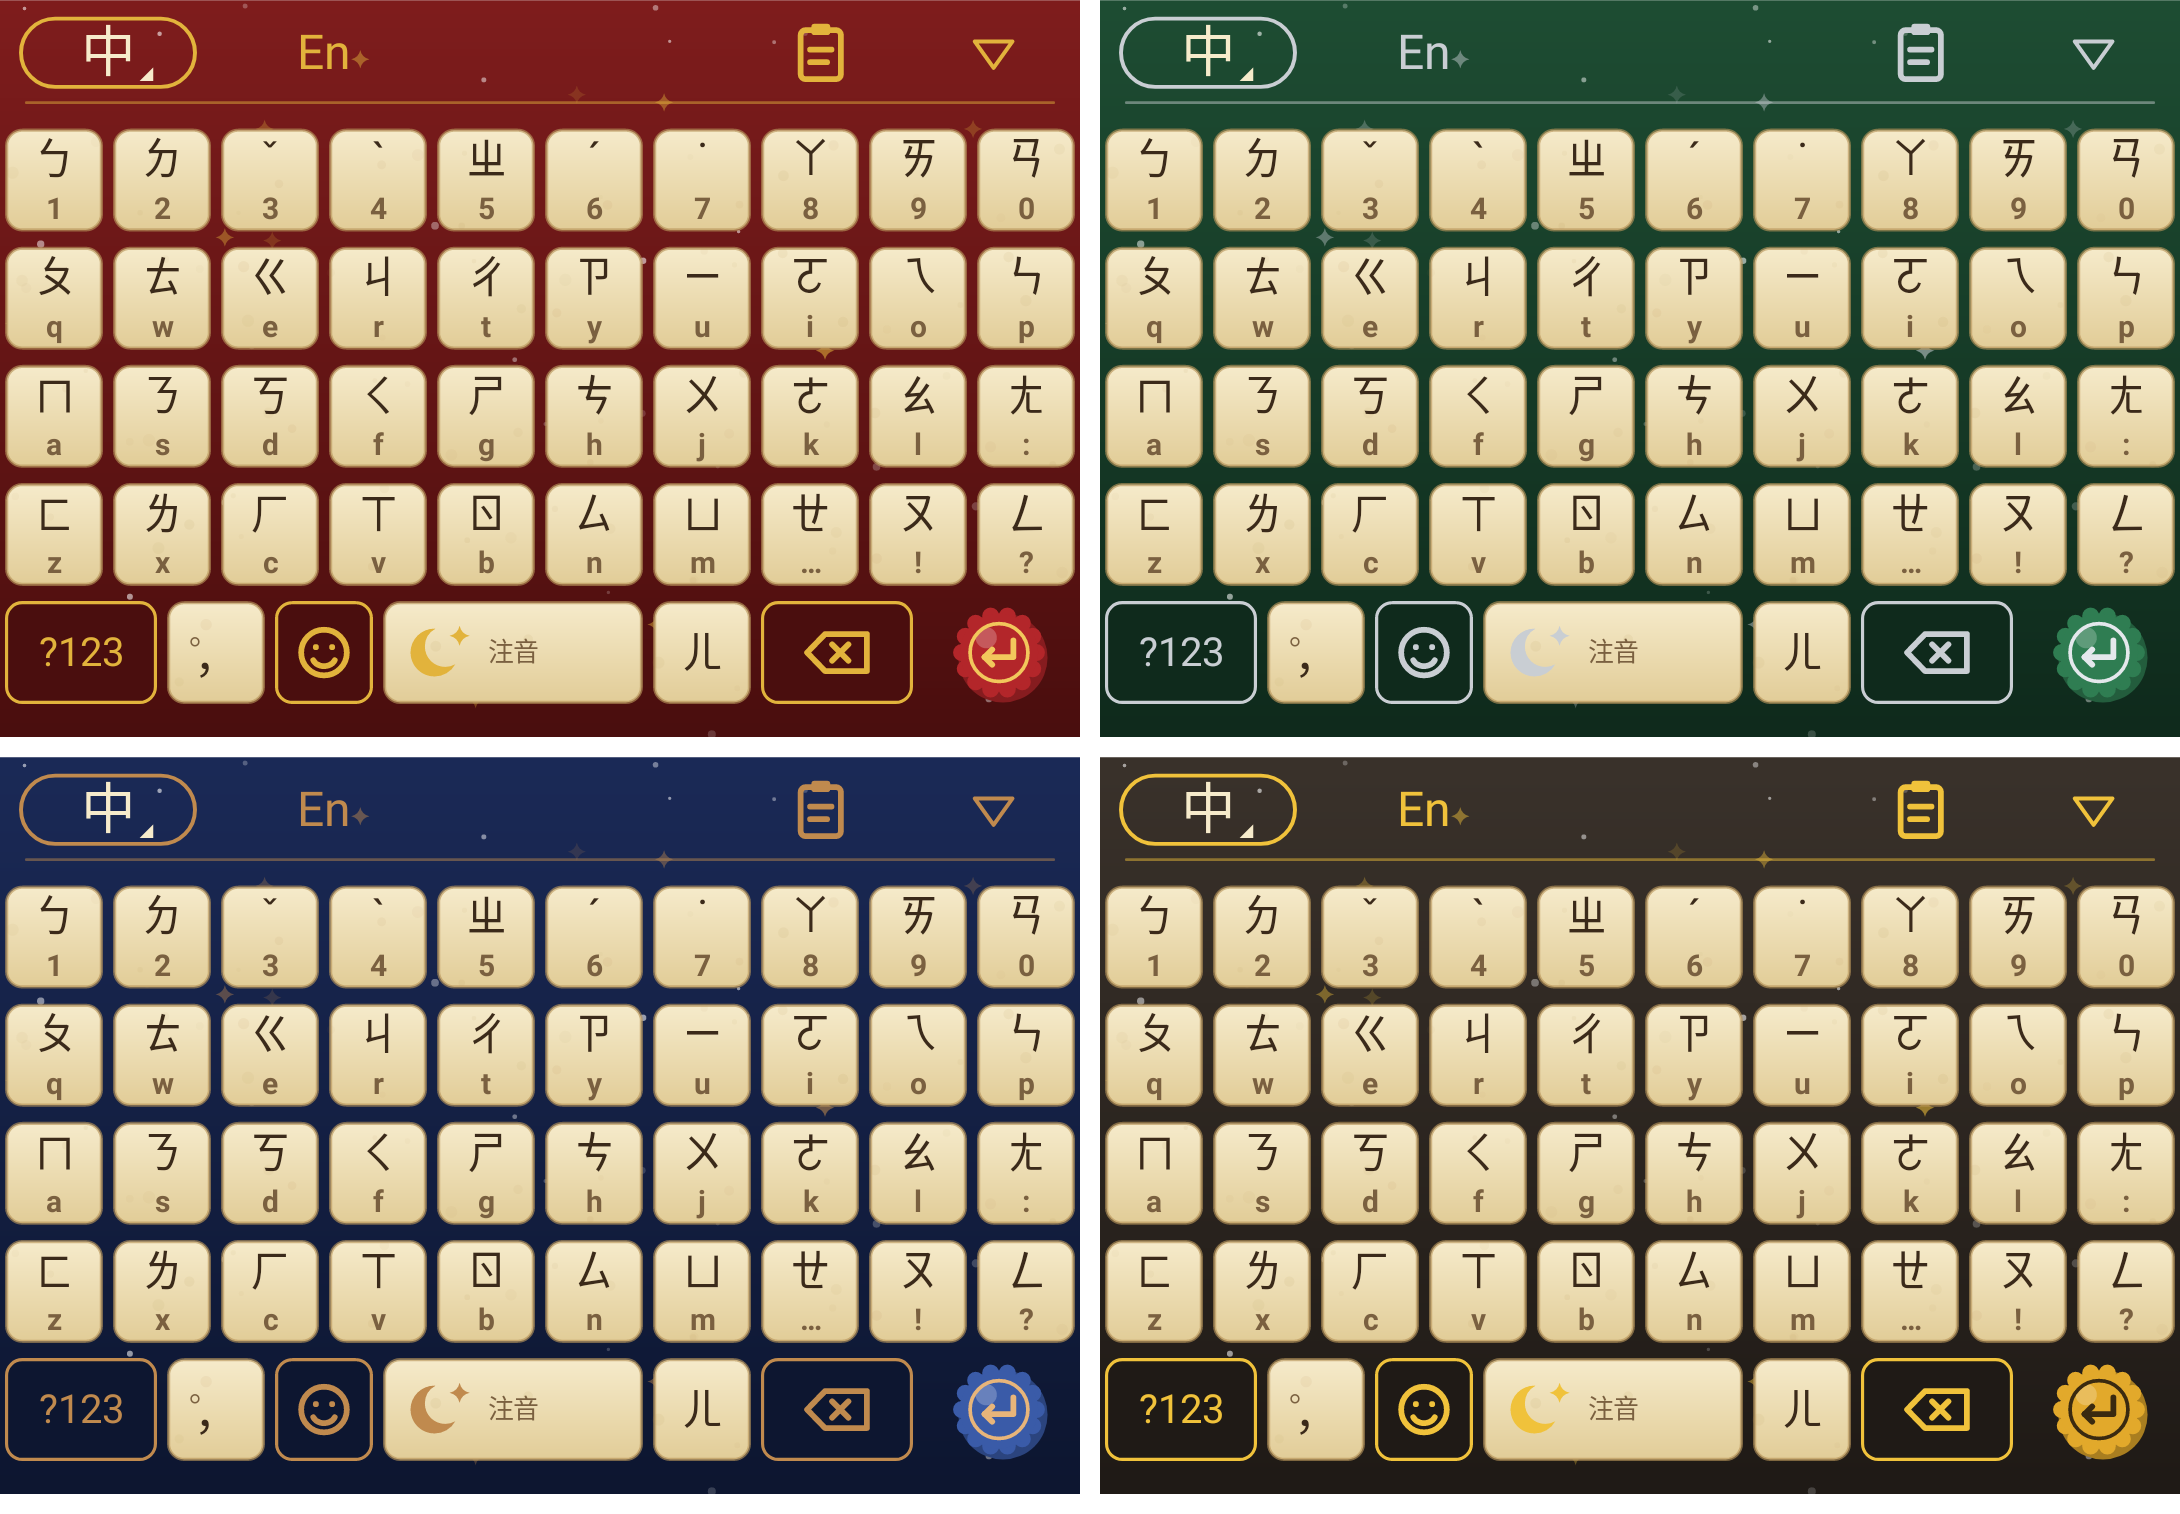
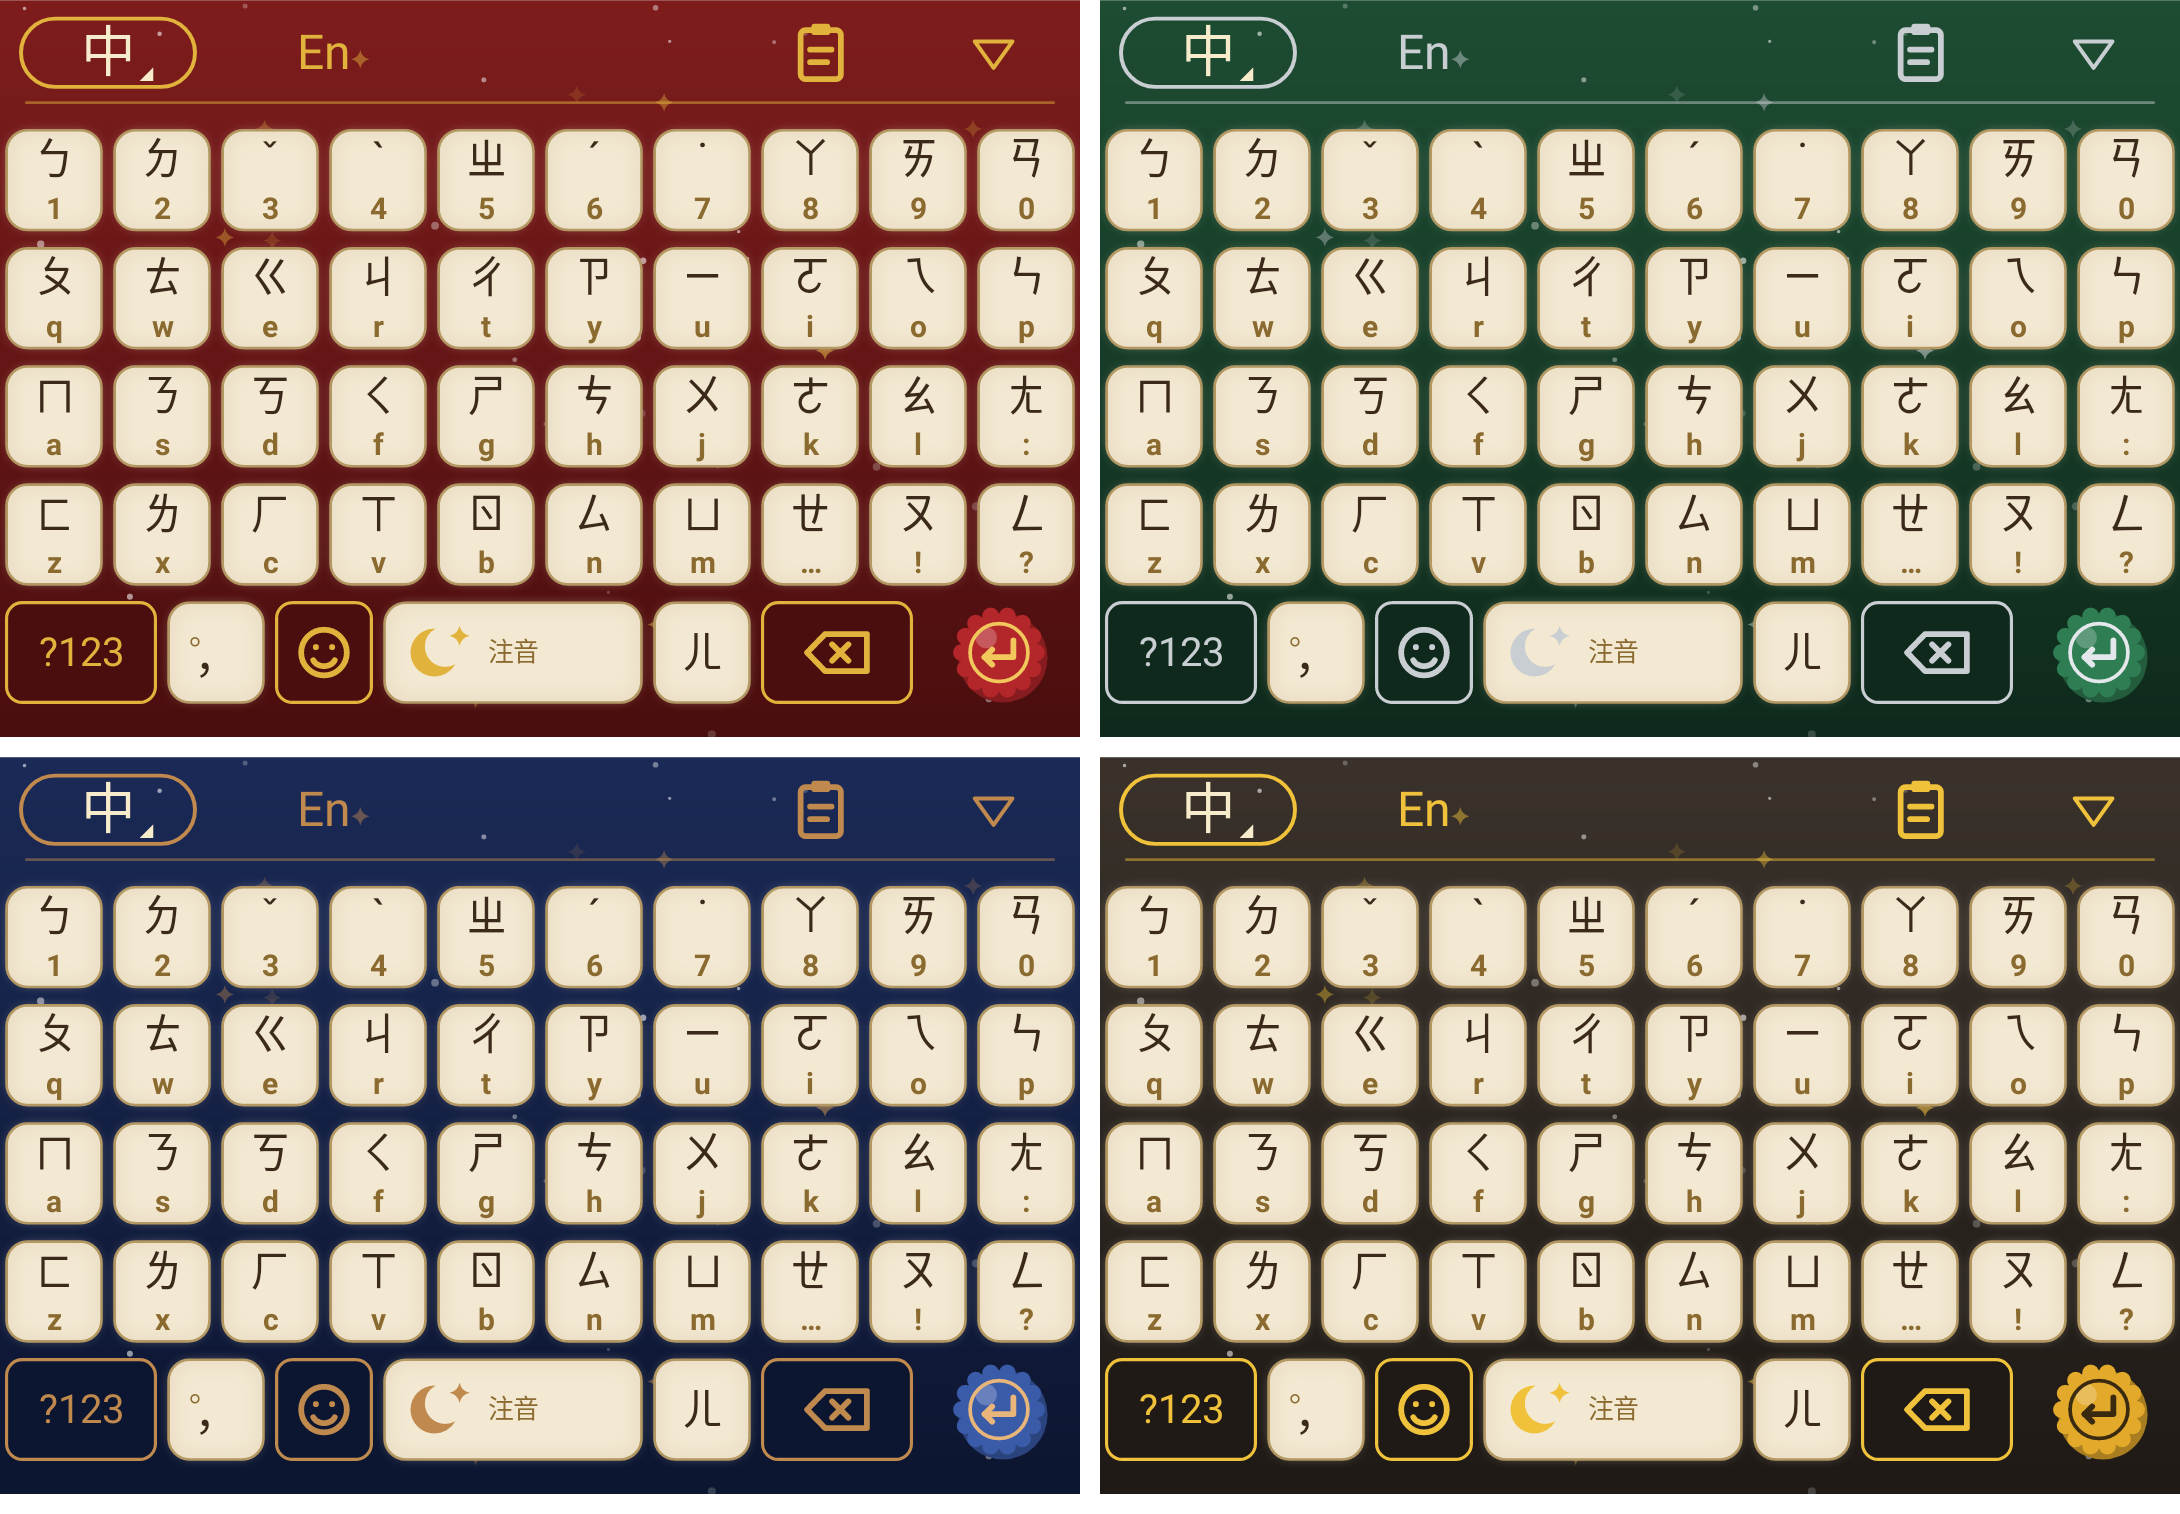
魔法學院主題：羊皮紙按鍵改得更像狀態欄
照使用者提供的「霍格華茲日誌」狀態欄取色：
- 底色改成很淡的米色 #F3E8D2，邊緣往內稍微變深（暈開效果）
- 細細的深金褐邊框 #B39863，拿掉斑點
- 小字（數字、英文）改成金褐色 #8A6A2F

Claude-Session: https://claude.ai/code/session_01YEi7AGz9LaiD389faVzAY6

diff --git a/app/src/main/java/io/github/yolanda1027/catpaw/Themes.kt b/app/src/main/java/io/github/yolanda1027/catpaw/Themes.kt
@@ -516,7 +516,7 @@ class StitchTheme(dp: Float) : KbTheme(dp) {
         if (!solid) {
             stroke.pathEffect = dash
             stroke.strokeWidth = 1.4f * dp
-            val inner = RectF(box.left + 3 * dp, box.top + 3 * dp, box.right - 3 * dp, box.bottom - 3 * dp)
+            val inner = RectF(box.left + 2.5f * dp, box.top + 2.5f * dp, box.right - 2.5f * dp, box.bottom - 2.5f * dp)
             c.drawRoundRect(inner, rad * 0.6f, rad * 0.6f, stroke)
             stroke.pathEffect = null
         }
@@ -782,11 +782,14 @@ class MagicTheme(dp: Float, private val pal: MagicPalette) : KbTheme(dp) {
     private val houseC = c(pal.house)
     private val houseDarkC = c(pal.houseDark)
     private val metalC = c(pal.metal)
+    // 羊皮紙的顏色（照使用者給的「霍格華茲日誌」狀態欄取色）
     private val ink = c("#3B2A1A")
-    private val inkSoft = c("#7A6040")
-    private val paperLight = c("#F6EBCB")
-    private val paperDark = c("#E2CD98")
-    private val paperEdge = c("#B8955A")
+    private val inkSoft = c("#8A6A2F") // 金褐色：小字（數字、英文）
+    private val paperLight = c("#F3E8D2")
+    private val paperDark = c("#EBDFC6") // 紙張邊緣稍微深一點
+    private val paperPressed = c("#E4D5B5")
+    private val paperEdge = c("#B39863") // 細細的深金褐邊框
+    private val edgeGlow = android.graphics.BlurMaskFilter(5f * dp, android.graphics.BlurMaskFilter.Blur.NORMAL)
 
     // 底色是深的：上方列、選字列用淺色字
     override val bg = houseC
@@ -843,27 +846,25 @@ class MagicTheme(dp: Float, private val pal: MagicPalette) : KbTheme(dp) {
         drawText(c, label, r.centerX(), r.centerY(), r.height() * 0.5f, ink)
     }
 
-    /** 舊羊皮紙：米黃漸層、邊緣深一點、幾個泛黃斑點 */
+    /**
+     * 羊皮紙：很淡的米色，邊緣往內一點點變深（像舊紙），外面一圈細細的深金褐邊框。
+     * 作法：先塗邊緣色，再把中間的米色「暈開」疊上去。
+     */
+    @Suppress("UNUSED_PARAMETER")
     private fun parchment(c: Canvas, box: RectF, pressed: Boolean, seed: Int) {
-        val rad = 6 * dp
-        fill.shader = LinearGradient(0f, box.top, 0f, box.bottom,
-            if (pressed) paperDark else paperLight, if (pressed) paperEdge else paperDark, Shader.TileMode.CLAMP)
-        c.drawRoundRect(box, rad, rad, fill)
+        val rad = 8 * dp
         fill.shader = null
-        var s = seed or 1
-        fun rnd(): Float { s = (s * 1103515245 + 12345) and 0x7fffffff; return (s % 10000) / 10000f }
-        fill.color = paperEdge
-        repeat(2) {
-            fill.alpha = (10 + rnd() * 16).toInt()
-            c.drawCircle(box.left + rnd() * box.width(), box.top + rnd() * box.height(), (0.8f + rnd() * 1.6f) * dp, fill)
-        }
-        fill.alpha = 255
+        fill.color = if (pressed) paperPressed else paperDark
+        c.drawRoundRect(box, rad, rad, fill)
+        val inner = RectF(box.left + 3 * dp, box.top + 3 * dp, box.right - 3 * dp, box.bottom - 3 * dp)
+        fill.color = if (pressed) CustomTheme.blend(paperPressed, paperLight, 0.4f) else paperLight
+        fill.maskFilter = edgeGlow
+        c.drawRoundRect(inner, rad * 0.7f, rad * 0.7f, fill)
+        fill.maskFilter = null
         stroke.color = paperEdge
-        stroke.alpha = 160
-        stroke.strokeWidth = 1.2f * dp
+        stroke.strokeWidth = 1f * dp
         stroke.pathEffect = null
         c.drawRoundRect(box, rad, rad, stroke)
-        stroke.alpha = 255
     }
 
     override fun drawKey(c: Canvas, r: RectF, key: Key, label: String, pressed: Boolean, shift: Int, rowH: Float) {
